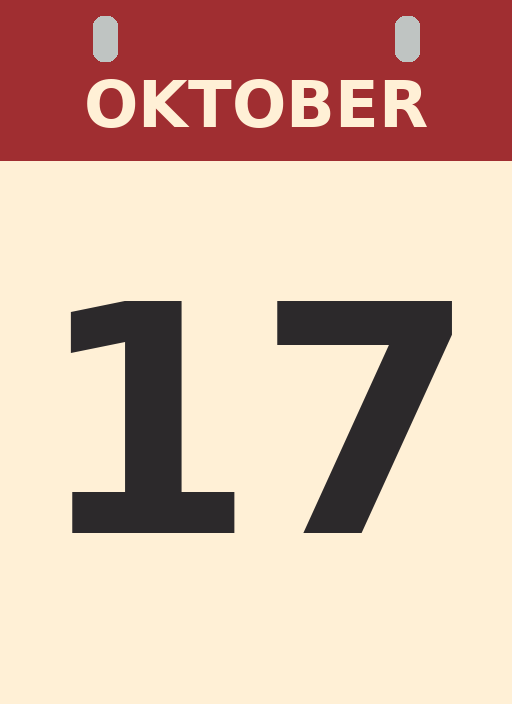
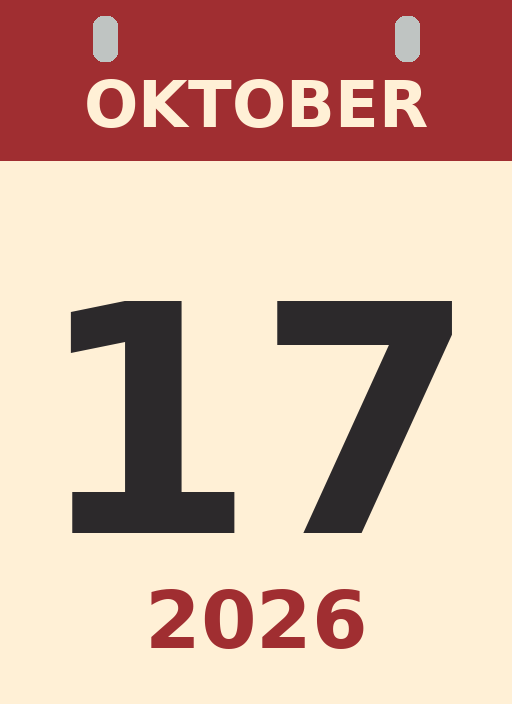
Show 2026 on the studio wall calendar

Changed region(s): [[0.2812, 0.8125, 0.7188, 0.9375]]

diff --git a/src/studio/decor.rs b/src/studio/decor.rs
@@ -91,7 +91,7 @@ fn broadcast_graphics(
         },
         Sign {
             name: "calendar",
-            label: "OKTOBER\n17".into(),
+            label: "OKTOBER\n17\n2026".into(),
             bytes: include_bytes!("../../assets/studio/calendar.png"),
             position: Vec3::new(-2.36, 2.22, -1.57),
             size: Vec2::new(0.60, 0.825),
@@ -453,7 +453,7 @@ mod tests {
         for expected in [
             &format!("{TITLE}\n{SUBTITLE}"),
             "On Air",
-            "OKTOBER\n17",
+            "OKTOBER\n17\n2026",
             "Powered by Slofox",
         ] {
             assert!(

diff --git a/scripts/render-studio-signs.py b/scripts/render-studio-signs.py
@@ -28,6 +28,7 @@ def render(font_path, output):
     draw.rectangle((0, 0, 511, 160), fill="#a02e31")
     centered(draw, "OKTOBER", (256, 105), font(64), cream)
     centered(draw, "17", (256, 422), font(318), "#2c292b")
+    centered(draw, "2026", (256, 620), font(80), "#a02e31")
     for horizontal in (105, 407):
         draw.rounded_rectangle((horizontal - 12, 16, horizontal + 12, 61), radius=10, fill="#bfc4c2")
 

diff --git a/README.md b/README.md
@@ -4,13 +4,13 @@ A Rust/Bevy app that renders two cartoon talk show hosts in a 3D studio.
 Host 1 reacts to ChatGPT's browser audio; host 2 reacts to your microphone.
 OBS records the app window and the two audio channels.
 
-![Birthday studio with physical signs and cozy set decoration](docs/studio-preview-2026-10-16-wall-signs.png)
+![Birthday studio with the October 17, 2026 wall calendar](docs/studio-preview-2026-10-16-calendar-year.png)
 
 ## Prototype
 
 - Physical studio signs show "AI Talks with
   Jati & Oliver", "Sonderausgabe: Iris hat Geburtstag", a glowing red "On Air"
-  sign, an October 17 wall calendar and a discreet "Powered by Slofox" desk plaque.
+  sign, an October 17, 2026 wall calendar and a discreet "Powered by Slofox" desk plaque.
   The title, birthday subtitle and illuminated sign are mounted on the back wall,
   not overlaid on the camera image. They follow perspective and occlusion naturally.
   They are independent of the diagnostics panel and `--clean`.
@@ -109,7 +109,7 @@ For a close comparison without audio capture:
 cargo run --locked -- --demo --clean --portrait-preview
 ```
 
-![Portrait view with physical birthday signs](docs/portrait-preview-2026-10-16-wall-signs.png)
+![Portrait view with the October 17, 2026 wall calendar](docs/portrait-preview-2026-10-16-calendar-year.png)
 
 To regenerate the bundled sign textures, run
 `python3 scripts/render-studio-signs.py` with Pillow installed. The default
